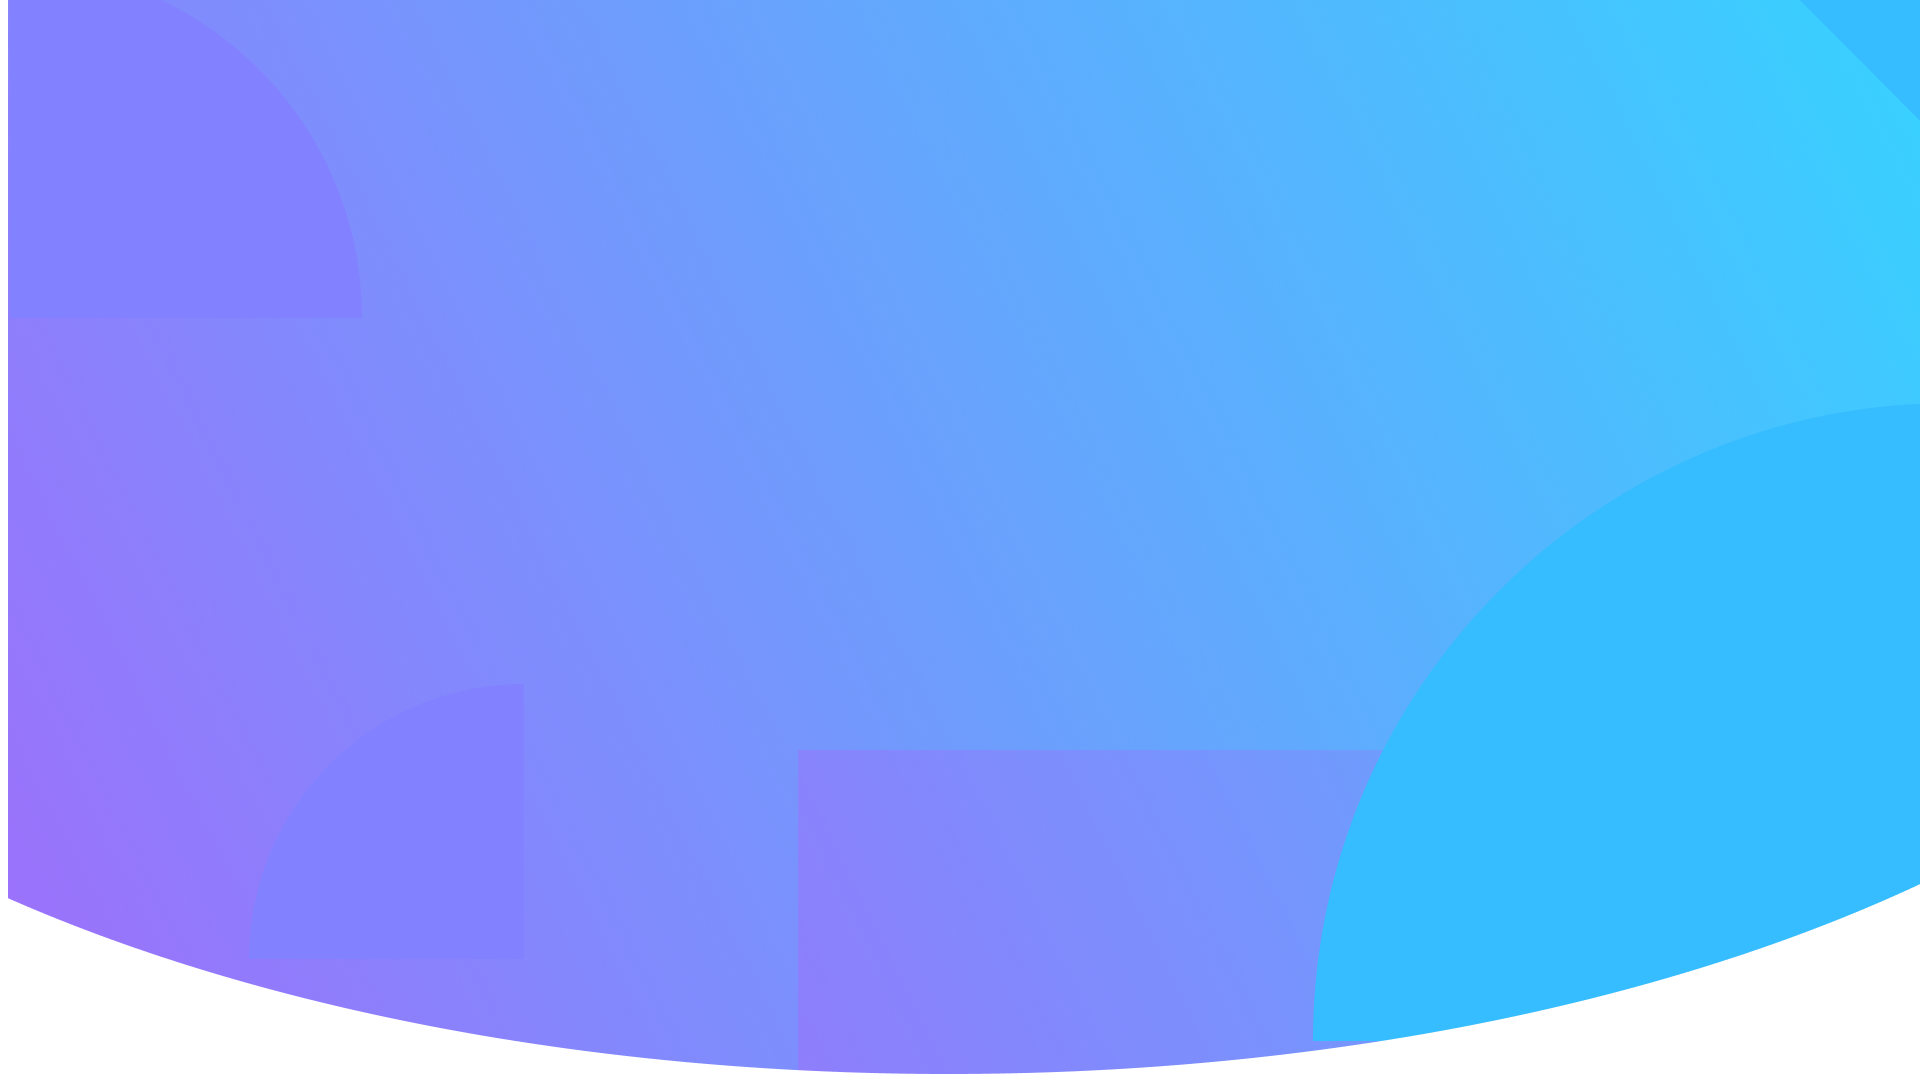
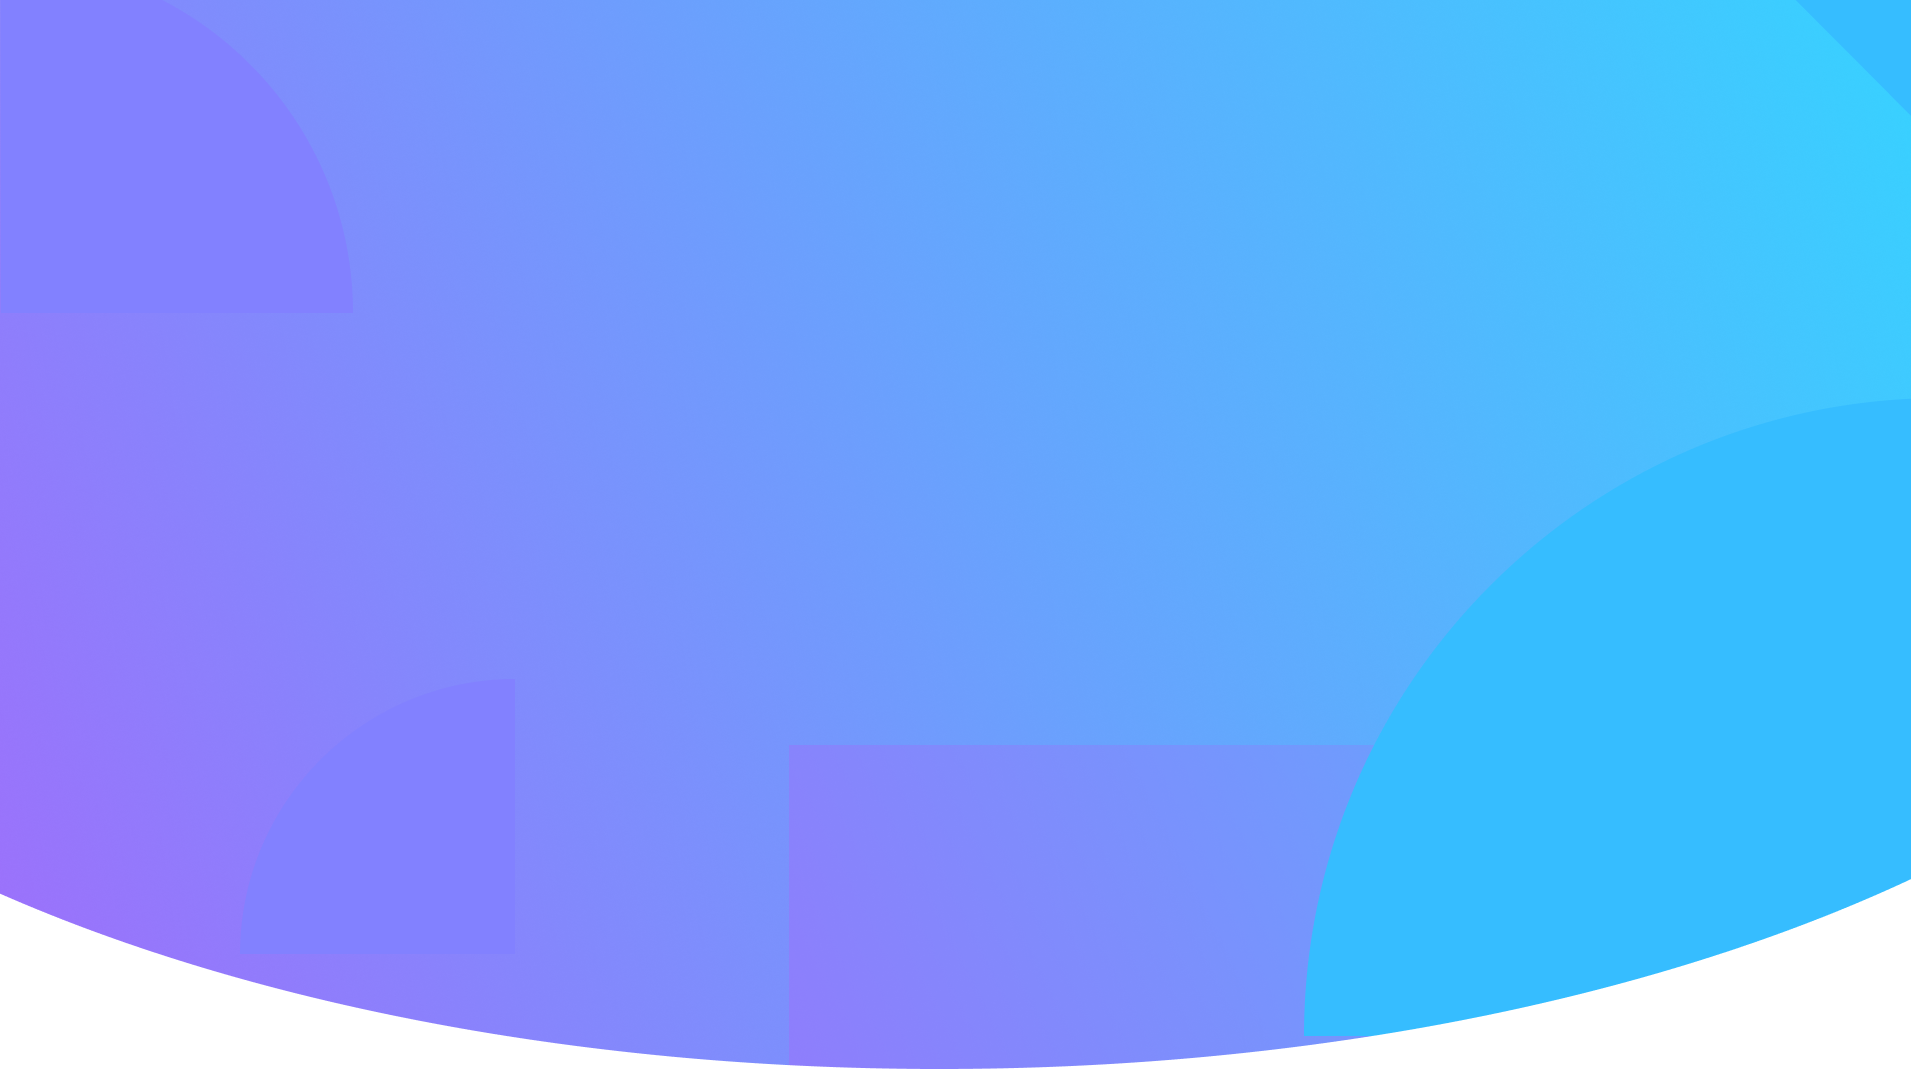
Commit

Changed region(s): [[0.0, 0.0, 0.0309, 0.8644]]

diff --git a/css/style.css b/css/style.css
@@ -10,7 +10,8 @@ body {
    /* max-width: 100%;    */
    /* height: 0; */
    /* padding-bottom: 77%; */
-   max-width: 1922px;
+   /* max-width: 1922px; */
+   width: 100%;
    height: auto;
    margin: auto;
    background: url(../image/HERO_10.png) no-repeat; 
@@ -30,6 +31,7 @@ body {
    margin-right: 60px;
    margin-left: 60px;
    padding-top: 30px;  
+   flex-wrap: wrap;
 }
 .navbar-menu {
    margin: 0;
@@ -145,13 +147,13 @@ body {
 }
 .card {  
    width: 370px;
-   height: 100%;
    background-color: #fff;
    box-shadow: 0px 20px 50px rgba(59, 62, 67, 0.05);
    border-radius: 15px;
    display: flex;
    align-items: flex-start;
    flex-direction: column;
+   padding: 53px 46px;
 }
 .card-right {
    margin-right: 30px;
@@ -159,44 +161,39 @@ body {
 .card-title {
    font-size: 22px;
    line-height: 30px;
-   color: #3B3E43;
-   margin-left: 11%;
+   color: #3B3E43;   
    margin-top: 20px;
    margin-bottom: 0;
 }
 .card-icon {
    width: 50px;
-   height: 50px;   
+   min-height: 50px;   
    box-shadow: 0px 10px 20px rgba(197, 158, 145, 0.1);
    border-radius: 15px;
    display: flex;
    justify-content: center;
    align-items: center;
-   margin-top: 50px;
-   margin-left: 11%;
 }
-.card-img-chart {   
+.card-icon-chart {   
    background: #FFE7DB;   
 }
-.card-img-discount {   
+.card-icon-discount {
    background: #E7F2EF;   
 }
-.card-img-user {   
+.card-icon-user {
    background: #FAF3D8;   
 }
-.card-img-search {   
+.card-icon-search {
    background: #C0F2EF;   
 }
-.card-img-graph {   
+.card-icon-graph {
    background: #EDE7F2;   
 }
-.card-img-bag {   
+.card-icon-bag {
    background: #D8F0FA;   
 }
 .card-text {
    margin-top: 15px;
-   margin-right: 23px;
-   margin-left: 11%;
    font-size: 16px;
    line-height: 24px;
    color: #595E64;
@@ -233,7 +230,7 @@ body {
    max-width: 1922px;
    height: auto;
    margin: auto;
-   background: url(../image/process.png) no-repeat;
+   background: url(../image/process_1.png) no-repeat;
    display: flex;
    justify-content: flex-start;
    align-items: center;
@@ -590,9 +587,6 @@ body {
 /* end footer */
 
 @media(max-width: 1310px) {
-   .navbar {
-      flex-wrap: wrap;
-   }
    .navbar-nav {
       order: 1;
       margin: auto;
@@ -809,10 +803,12 @@ body {
       flex-direction: column;
    }
    .process-icon {
-      margin-top: 10%;
+      margin-top: 5%;
    }
    .process-card-text {
       margin-bottom: 20px;
+      margin-right: 0;
+      width: 90%;
    }
    .process-card-end {
       margin-bottom: 100px;
@@ -883,6 +879,9 @@ body {
    }
    .footer-down {
       margin: 3px;
+   }
+   .footer-item {
+      margin-right: 0;
    }
 }
 

diff --git a/index.html b/index.html
@@ -91,7 +91,7 @@
          <div class="card-box">
             <div class="card-row-one">
               <div class="card card-right">
-               <div class="card-icon card-img-chart">
+               <div class="card-icon card-icon-chart">
                   <img src="./image/Chart.svg" alt="chart" class="card-img">
                </div>
                <h2 class="card-title">
@@ -103,7 +103,7 @@
             </div>
             <!-- /.card -->
             <div class="card card-right">
-               <div class="card-icon card-img-discount">
+               <div class="card-icon card-icon-discount">
                   <img src="./image/Discount.svg" alt="" class="card-img">
                </div>
                <h2 class="card-title">
@@ -115,7 +115,7 @@
             </div>
             <!-- /.card -->
             <div class="card">
-               <div class="card-icon card-img-user">
+               <div class="card-icon card-icon-user">
                   <img src="./image/User.svg" alt="" class="card-img">
                </div>
                <h2 class="card-title">
@@ -129,7 +129,7 @@
             </div>
             <div class="card-row-two">
                <div class="card card-right">
-               <div class="card-icon card-img-search">
+               <div class="card-icon card-icon-search">
                   <img src="./image/Search.svg" alt="" class="card-img">
                </div>
                <h2 class="card-title">
@@ -141,7 +141,7 @@
             </div>
             <!-- /.card -->
             <div class="card card-right">
-               <div class="card-icon card-img-graph">
+               <div class="card-icon card-icon-graph">
                   <img src="./image/Graph.svg" alt="" class="card-img">
                </div>
                <h2 class="card-title">
@@ -153,7 +153,7 @@
             </div>
             <!-- /.card -->
             <div class="card">
-               <div class="card-icon card-img-bag">
+               <div class="card-icon card-icon-bag">
                   <img src="./image/Bag.svg" alt="" class="card-img">
                </div>
                <h2 class="card-title">
